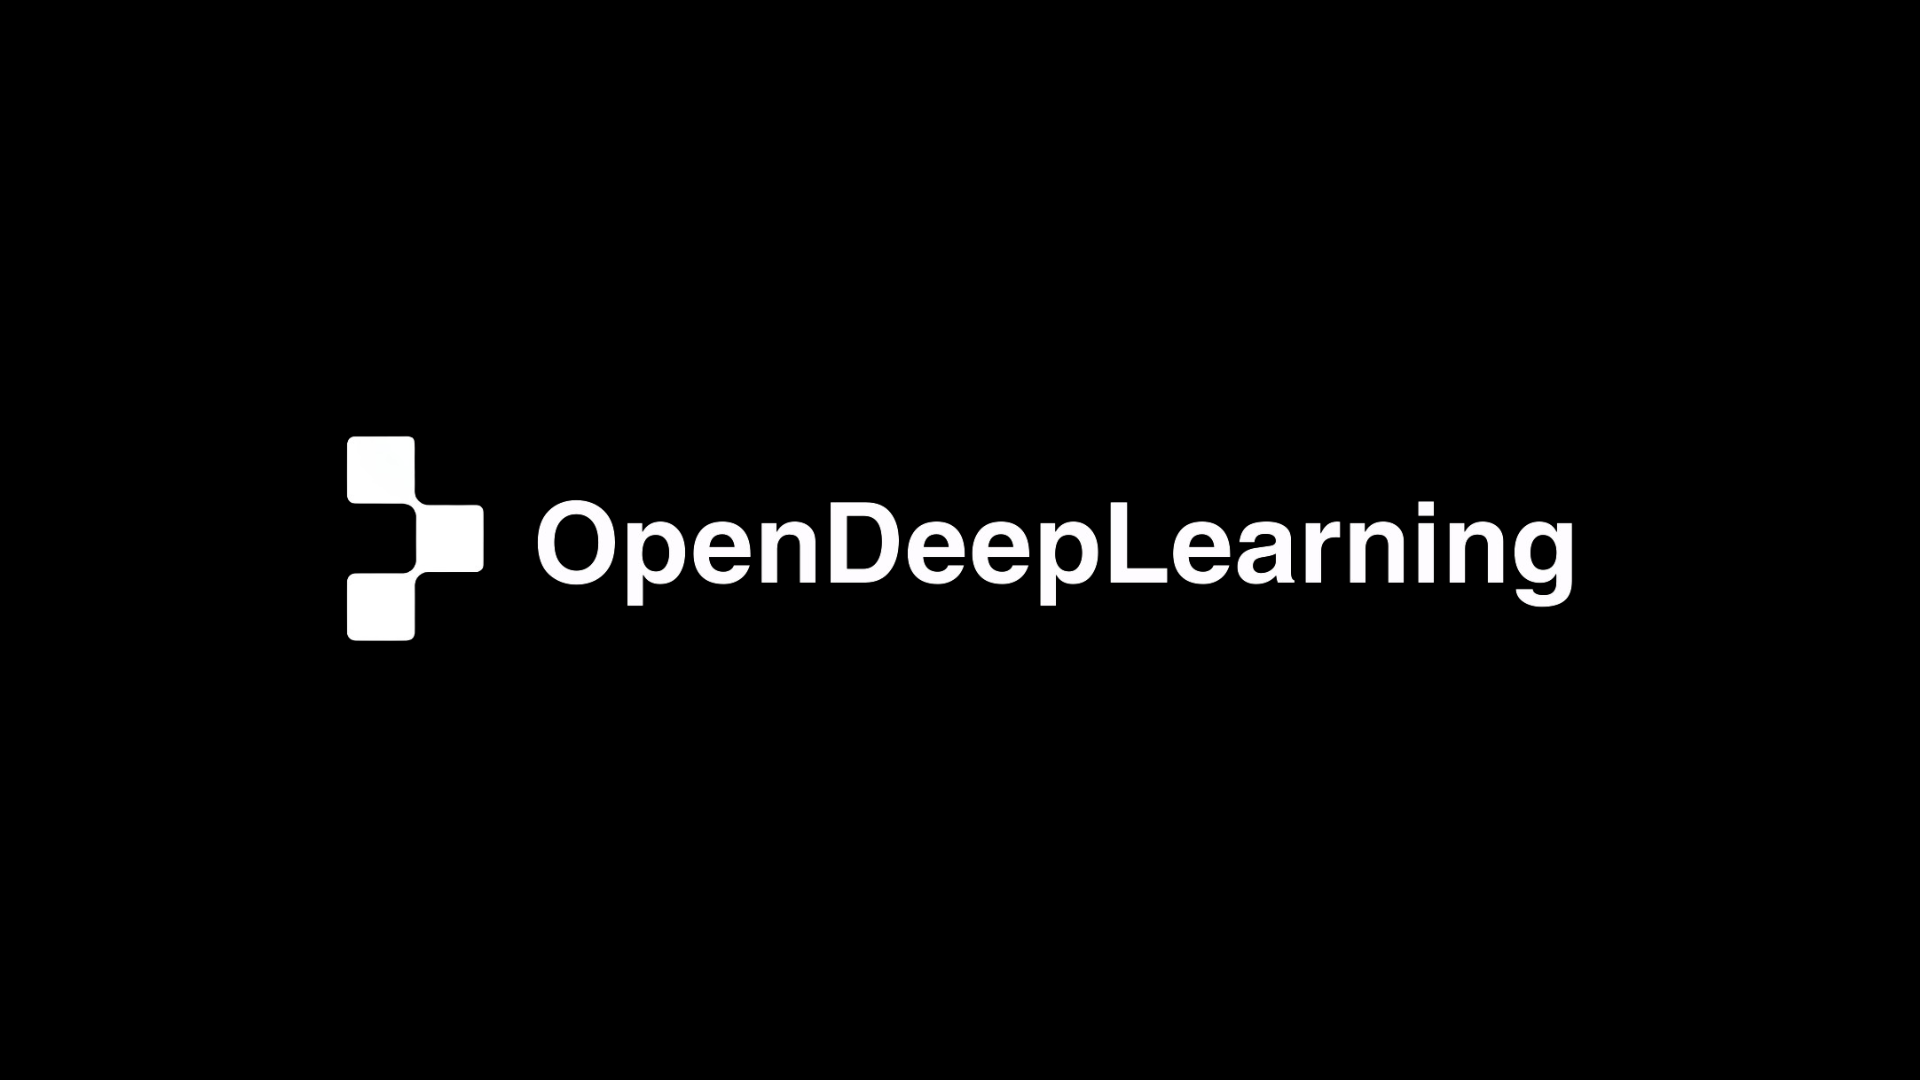
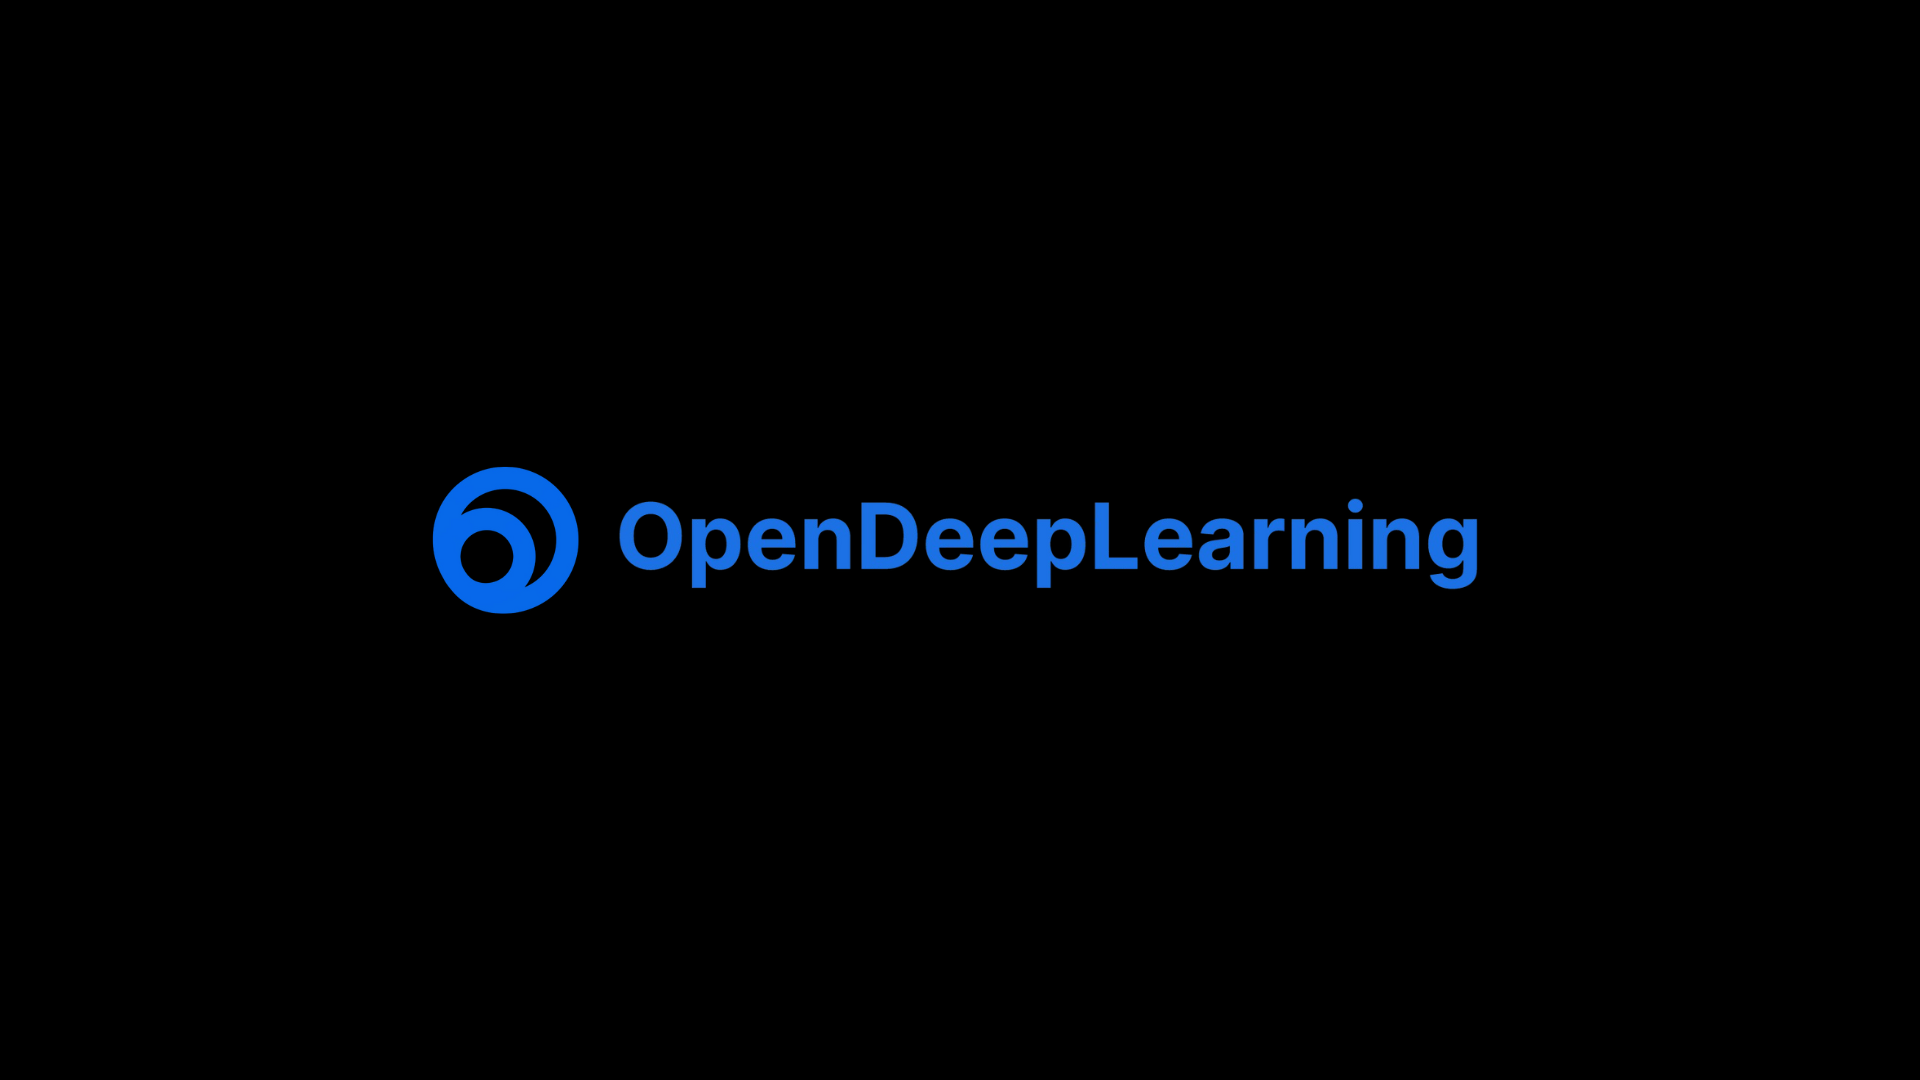
Update

Changed region(s): [[0.1562, 0.3972, 0.8438, 0.6111]]

diff --git a/README.md b/README.md
@@ -1,7 +1,9 @@
 <div align="center">
-  <a href="https://www.opendeeplearning.xyz/" target="_blank" >
-    <img src="public/opendeeplearning.png" alt="OpenDeepLearning" width="450"/>
+  <a href="https://www.opendeeplearning.xyz/" target="_blank">
+    <img src="public/logo.png" alt="OpenDeepLearning Logo" width="50" style="vertical-align: middle; margin-right: 10px;"/>
+    <img src="public/opendeeplearning.png" alt="OpenDeepLearning Title" width="450" style="vertical-align: middle;"/>
   </a>
+</div>
 
 <a href="https://github.com/OpenDeepLearningAI/OpenDeepLearning/stargazers"><img src="https://img.shields.io/github/stars/OpenDeepLearningAI/OpenDeepLearning" alt="Stars Badge"/></a>
 <a href="https://github.com/OpenDeepLearningAI/OpenDeepLearning/network/members"><img src="https://img.shields.io/github/forks/OpenDeepLearningAI/OpenDeepLearning" alt="Forks Badge"/></a>
